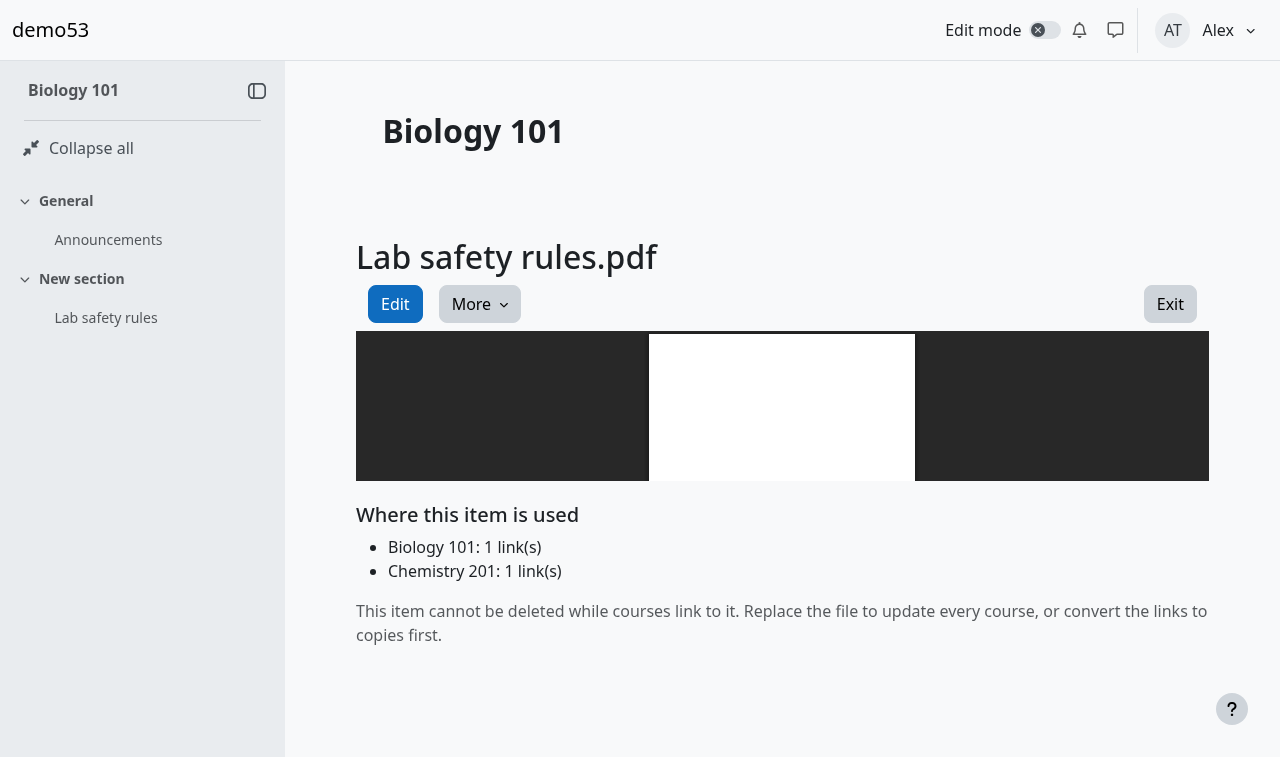
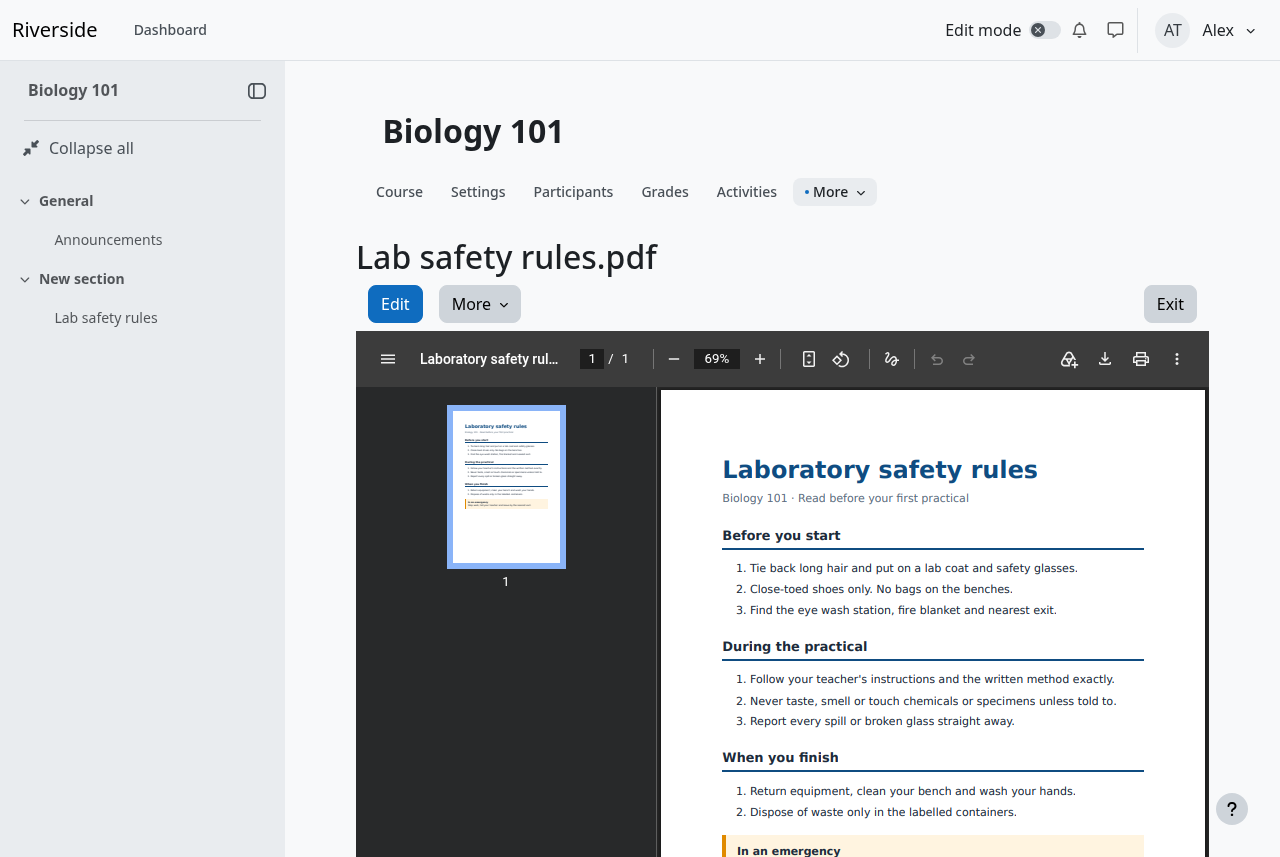
Teacher guide: retake screenshots with real sample content and a neutral site name; add More menu, video Edit page and image Edit page

diff --git a/docs/TEACHER-GUIDE.md b/docs/TEACHER-GUIDE.md
@@ -17,7 +17,7 @@ The Media bank lets you upload a video, audio file, PDF or picture **once** and 
 
 The file now appears in the list. Click its name to open its page, where you can play or view it.
 
-![The Content bank of the course Biology 101, listing two items, a PNG picture and a PDF, with the Add and Upload buttons above the list.](images/teacher-1-content-bank.png)
+![The Content bank of the course Biology 101 in list view, with the Add and Upload buttons above a table of three items (a picture, a video and a PDF) with columns for places linked, last modified, size, type and author.](images/teacher-1-content-bank.png)
 
 **Will my video start quickly?** If your site has it switched on (it is by default), an MP4 video is prepared for streaming a few minutes after you upload it, so students can start watching before the whole file has downloaded. Nothing about the picture or sound changes. It is done by the server in the background; there is nothing for you to do. The file you uploaded is kept as an earlier version (see section 5).
 
@@ -70,14 +70,16 @@ Click an item's name in the Content bank. You see the preview, then:
 
 If courses link to the item, the page also says: *"This item cannot be deleted while courses link to it."* The **Delete** option is not offered. That protects those courses. To delete the item, first convert the links to copies (see section 6).
 
-![An item page with a preview, the buttons Edit, More and Exit, and the section Where this item is used listing Biology 101 and Chemistry 201 with one link each.](images/teacher-2-item-page.png)
+![An item page for a PDF, with the buttons Edit, More and Exit, a preview of the document, and below it the section Where this item is used.](images/teacher-2-item-page.png)
 
 ## 4. Replace a file
 
 Use this when the file needs correcting and you want every course that links to it to get the fix.
 
 1. Open the item's page.
-2. Choose **Replace with file** and pick the new file.
+2. Open the **More** menu and choose **Replace with file**, then pick the new file.
+
+![The More menu of an item, listing Make unlisted, Rename, Replace with file, Download, Copy content and Delete.](images/teacher-5-more-menu.png)
 3. Save.
 
 Things to know:
@@ -97,6 +99,12 @@ On the item's page, click **Edit**.
 | **Restore an earlier version** | Choose an older file to put back. This changes it for every course that links to the item. The file it replaces is kept, so you can undo the undo. |
 
 Saving shows *"Content updated"*.
+
+This is the Edit page of a video. The text alternative of an image is on the same page, and cannot be left empty:
+
+![The Edit page of a video with a Transcript box, a place to add a WebVTT captions file, and a Versions section with Restore an earlier version and a download link for version 1.](images/teacher-6-edit-video.png)
+
+![The Edit page of a picture with the required Text alternative field filled in.](images/teacher-7-edit-image.png)
 
 > **Important: these are kept with the bank item, not with the course.**
 > A course that links to the file, or holds a copy of it, gets the **bare file**. It does **not** get the captions, text alternative or transcript.
